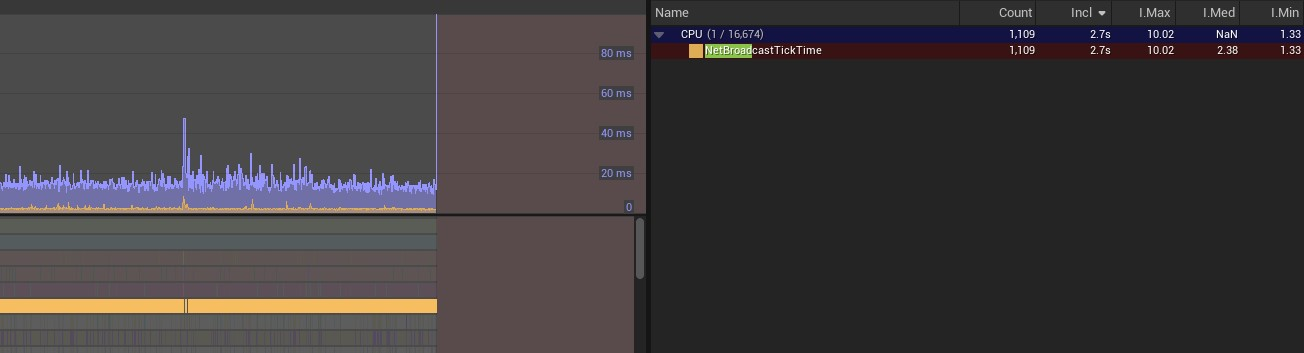
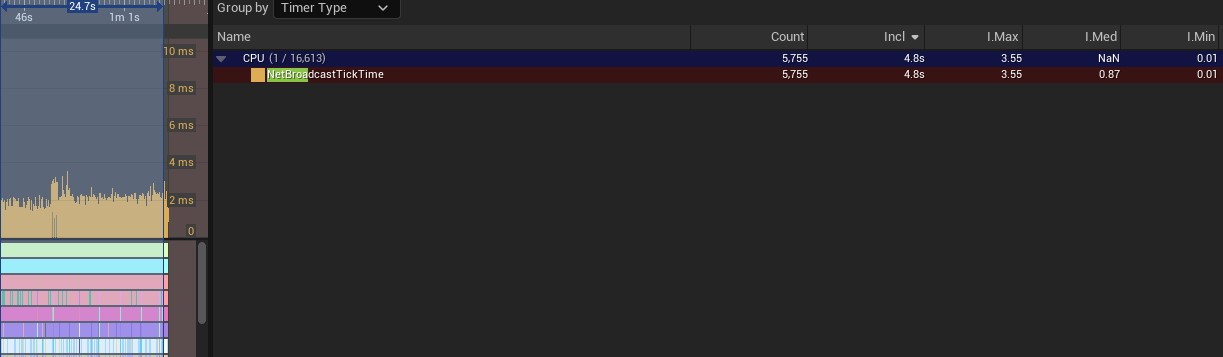
[UPD] Comparisons with Push Model

diff --git a/_posts/2022-06-10-network-managers.md b/_posts/2022-06-10-network-managers.md
@@ -47,15 +47,19 @@ This can also be mitigated with the use of Actor Managers. Due to the small numb
 
 This Section showcases metrics from replicating 976 actors with and without a network manager. The test was conducted with 2 players: A listen server host player with a `-nullrhi` instance, and a client. The metrics were recorded from the server instance using [Unreal Insights](https://docs.unrealengine.com/4.26/en-US/TestingAndOptimization/PerformanceAndProfiling/UnrealInsights/), and both experiments were performed on the same hardware under equivalent conditions.
 
-The first experiment consisted of replicating 976 Actors of two different types with 10 replicated variables:
+The first experiment consists of replicating 976 Actors with two replicated variables, each Actor runs at a `NetUpdateFrequency` of 25 and has a `NetPriority` of 1:
 
 ![Without network manager]({{ '/' | absolute_url }}/assets/images/per-post/net-man/Profiling1000actors.jpg){: .align-center}
 
-In the second experiment, however, we delegated the handling of 720 of those 976 actors to a Network Manager (leaving the remaining 256 actors to still be replicated):
+In the second experiment, 720 of those 976 actors use the [Push Model](https://github.com/EpicGames/UnrealEngine/blob/release/Engine/Source/Runtime/Net/Core/Private/Net/Core/PushModel/PushModel.cpp) with a reduced `NetUpdateFrequency` of 1 (leaving the remaining 256 actors with default replication):
+
+![Without network manager]({{ '/' | absolute_url }}/assets/images/per-post/net-man/pushmodel-samesetup.jpg){: .align-center}
+
+In the third experiment, we delegated the handling of 720 of those 976 actors to a Network Manager running with a `NetUpdateFrequency` of 100 (leaving the remaining 256 actors with default replication with a `NetUpdateFrequency` of 25):
 
 ![Without network manager]({{ '/' | absolute_url }}/assets/images/per-post/net-man/Profiling1000actors720netman.jpg){: .align-center}
 
-As we can see the performance metrics in the second experiment look more favorable, as we are reducing considerably the amount of replicated Actors by moving their data replication to a network manager (while keeping the same amount of Actors in the Level).
+As we can see the performance metrics in the third experiment look more favorable, as we are reducing considerably the amount of replicated Actors by moving their data replication to a network manager (while keeping the same amount of Actors in the Level). The Push Model experiment provides speedup over the baseline setup, but the network manager is the absolute winner for this use case.
 
 Actors that need RPCs to work will still need to be replicated.
 {: .notice--info}
